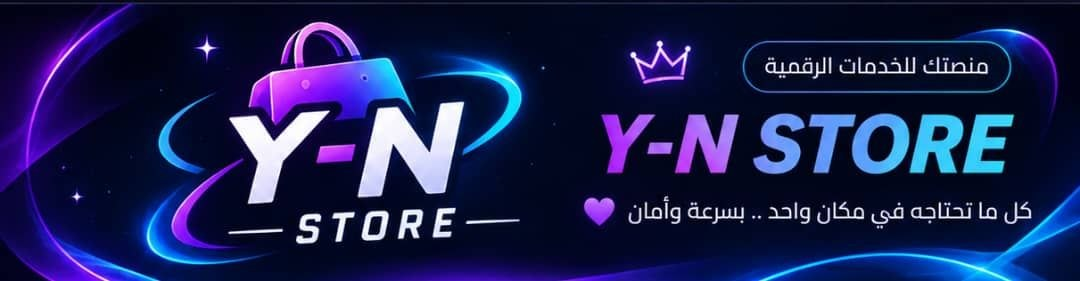
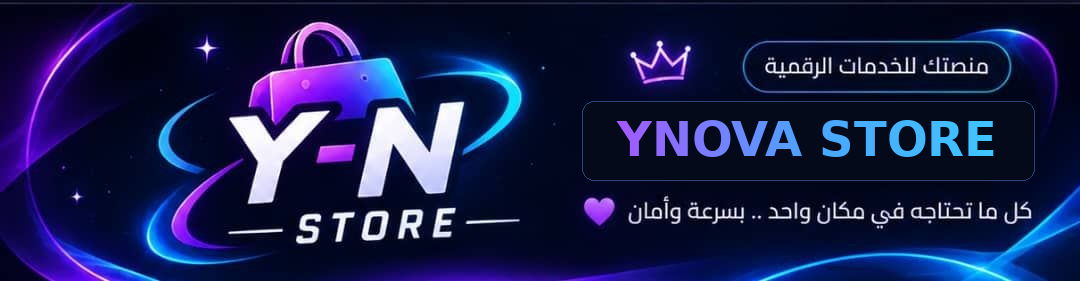
Add files via upload

Changed region(s): [[0.55, 0.3986, 0.9472, 0.6548], [0.55, 0.3416, 0.9472, 0.3701]]

diff --git a/templates/base.html b/templates/base.html
@@ -3,12 +3,12 @@
 <head>
     <meta charset="UTF-8">
     <meta name="viewport" content="width=device-width, initial-scale=1.0, maximum-scale=1.0, user-scalable=no">
-    <title>NOVA STORE</title>
-    <meta name="description" content="NOVA STORE - متجر رقمي لشراء الخدمات الرقمية وشحن الألعاب وحسابات التواصل الاجتماعي مع دعم فني ومتابعة الطلبات.">
+    <title>YNOVA STORE</title>
+    <meta name="description" content="YNOVA STORE - متجر رقمي لشراء الخدمات الرقمية وشحن الألعاب وحسابات التواصل الاجتماعي مع دعم فني ومتابعة الطلبات.">
     <meta name="robots" content="index,follow,max-image-preview:large">
     <link rel="canonical" href="{{ request.url_root.rstrip('/') }}{{ request.path }}">
-    <meta property="og:type" content="website"><meta property="og:site_name" content="NOVA STORE">
-    <meta property="og:title" content="NOVA STORE | المتجر الرقمي">
+    <meta property="og:type" content="website"><meta property="og:site_name" content="YNOVA STORE">
+    <meta property="og:title" content="YNOVA STORE | المتجر الرقمي">
     <meta property="og:description" content="خدمات رقمية وشحن ألعاب وحسابات تواصل اجتماعي ودعم فني.">
     <meta property="og:url" content="{{ request.url }}">
     <meta name="theme-color" content="#08091b">
@@ -51,7 +51,7 @@
         body.light-theme nav span, body.light-theme nav a { color:#475569 !important; }
     
 
-/* NOVA STORE: realistic royal-blue theme (solid colors, restrained shadows) */
+/* YNOVA STORE: realistic royal-blue theme (solid colors, restrained shadows) */
 :root{--yn-blue:#2457d6;--yn-blue-hover:#1d4ed8;--yn-blue-soft:#93c5fd;--yn-bg:#0b1220;--yn-panel:#111c2e;--yn-panel-2:#16243a;--yn-border:#263b60;--yn-text:#e8eef8;--yn-muted:#a8b6cc}
 html{color-scheme:dark}
 body{background-color:var(--yn-bg)!important;color:var(--yn-text)}
@@ -118,7 +118,7 @@ body.light-theme #sidebarMenu a,body.light-theme #sidebarMenu button{color:#2530
 }
 </style>
 <style id="nova-complete-light-theme">
-/* NOVA STORE - complete light appearance: no dark panels left behind */
+/* YNOVA STORE - complete light appearance: no dark panels left behind */
 body.light-theme{
   --yn-bg:#f5f7fb;--yn-panel:#ffffff;--yn-panel-2:#f8fafc;--yn-border:#e2e8f0;
   --yn-text:#172033;--yn-muted:#64748b;--yn-blue:#2457d6;
@@ -223,7 +223,7 @@ body.light-theme .backdrop-blur-md,body.light-theme .backdrop-blur-lg{backdrop-f
 
 </head>
 <body class="min-h-screen flex flex-col justify-between pb-28">
-<div id="novaLoading" aria-live="polite"><div class="nova-loader"><img src="{{ url_for('static',filename='images/nova-symbol.svg') }}" alt="NOVA"><div class="nova-spin"></div><div class="text-white text-sm font-black">NOVA STORE</div><div class="text-slate-400 text-xs mt-2">جاري إتمام العملية...</div></div></div>
+<div id="novaLoading" aria-live="polite"><div class="nova-loader"><img src="{{ url_for('static',filename='images/nova-symbol.svg') }}" alt="NOVA"><div class="nova-spin"></div><div class="text-white text-sm font-black">YNOVA STORE</div><div class="text-slate-400 text-xs mt-2">جاري إتمام العملية...</div></div></div>
 
 
     <div id="sidebarOverlay" onclick="toggleSidebar()"></div>
@@ -235,7 +235,7 @@ body.light-theme .backdrop-blur-md,body.light-theme .backdrop-blur-lg{backdrop-f
                 <div class="flex items-center gap-3">
                     <div class="w-12 h-12 bg-cyan-500/10 border border-cyan-500/30 rounded-2xl flex items-center justify-center text-cyan-400 font-black">NOVA</div>
                     <div>
-                        <h3 class="text-sm font-black text-white">NOVA STORE</h3>
+                        <h3 class="text-sm font-black text-white">YNOVA STORE</h3>
                         <p class="text-[11px] text-gray-400">الخدمات الرقمية</p>
                     </div>
                 </div>
@@ -287,7 +287,7 @@ body.light-theme .backdrop-blur-md,body.light-theme .backdrop-blur-lg{backdrop-f
             {% if current_user %}
             <a href="/logout" class="block bg-rose-500/10 border border-rose-500/30 text-rose-400 py-3 rounded-2xl text-xs font-bold mb-3">تسجيل الخروج</a>
             {% endif %}
-            <p class="text-[10px] text-gray-500">© 2026 NOVA STORE</p>
+            <p class="text-[10px] text-gray-500">© 2026 YNOVA STORE</p>
         </div>
     </div>
 
@@ -299,7 +299,7 @@ body.light-theme .backdrop-blur-md,body.light-theme .backdrop-blur-lg{backdrop-f
                     <svg class="w-5 h-5" fill="none" stroke="currentColor" stroke-width="2" viewBox="0 0 24 24"><path stroke-linecap="round" stroke-linejoin="round" d="M4 6h16M4 12h16M4 18h16"/></svg>
                 </button>
                 <a href="/" class="text-sm font-black text-white flex items-center gap-1.5">
-                    <span>NOVA STORE</span>
+                    <span>YNOVA STORE</span>
                     {% if current_user and current_user.is_verified %}
                     <svg class="w-4 h-4 text-cyan-400" fill="currentColor" viewBox="0 0 20 20"><path d="M6.267 3.455a3.066 3.066 0 001.745-.723 3.066 3.066 0 013.976 0 3.066 3.066 0 001.745.723 3.066 3.066 0 012.812 2.812c.051.643.304 1.254.723 1.745a3.066 3.066 0 010 3.976 3.066 3.066 0 00-.723 1.745 3.066 3.066 0 01-2.812 2.812 3.066 3.066 0 00-1.745.723 3.066 3.066 0 01-3.976 0 3.066 3.066 0 00-1.745-.723 3.066 3.066 0 01-2.812-2.812 3.066 3.066 0 00-.723-1.745 3.066 3.066 0 010-3.976 3.066 3.066 0 00.723-1.745 3.066 3.066 0 012.812-2.812zm7.44 5.25a.75.75 0 00-1.14-.976l-3.36 3.92-1.74-1.74a.75.75 0 00-1.06 1.06l2.25 2.25a.75.75 0 001.12-.08l4-4.5z"/></svg>
                     {% endif %}
@@ -368,7 +368,7 @@ body.light-theme .backdrop-blur-md,body.light-theme .backdrop-blur-lg{backdrop-f
     </nav>
 
 
-<!-- مساعد NOVA STORE العائم: هوية محادثة بنفسجي/نيلي مستقلة عن ألوان المتجر -->
+<!-- مساعد YNOVA STORE العائم: هوية محادثة بنفسجي/نيلي مستقلة عن ألوان المتجر -->
 <style>
  #owjBotButton{background:linear-gradient(135deg,#8b5cf6,#6366f1);color:#fff;border:1px solid #c4b5fd;box-shadow:0 12px 32px rgba(99,102,241,.38)}
  #owjBotWindow{background:#111126;border:1px solid rgba(167,139,250,.42);box-shadow:0 24px 70px rgba(20,12,55,.58)}
@@ -383,18 +383,18 @@ body.light-theme .backdrop-blur-md,body.light-theme .backdrop-blur-lg{backdrop-f
  #owjBotMessages .quick-question{background:#30285b;border:1px solid #6d5ca8;color:#ddd6fe}
  @media(max-width:480px){ #owjBotWindow{bottom:6.1rem;left:.75rem;width:calc(100vw - 1.5rem);max-width:none}#owjBotMessages{height: min(56vh,390px)}}
 </style>
-<button id="owjBotButton" type="button" aria-label="فتح مساعد NOVA STORE" aria-controls="owjBotWindow" aria-expanded="false" class="fixed bottom-24 left-4 z-50 w-14 h-14 rounded-full flex items-center justify-center active:scale-95 transition">
+<button id="owjBotButton" type="button" aria-label="فتح مساعد YNOVA STORE" aria-controls="owjBotWindow" aria-expanded="false" class="fixed bottom-24 left-4 z-50 w-14 h-14 rounded-full flex items-center justify-center active:scale-95 transition">
  <svg viewBox="0 0 24 24" fill="none" stroke="currentColor" stroke-width="1.8" class="w-7 h-7"><rect x="3" y="7" width="18" height="13" rx="4"/><path d="M12 3v4M8 13h.01M16 13h.01M9 17h6"/></svg>
  <span class="absolute -top-1 -right-1 w-3 h-3 rounded-full bg-emerald-400 border-2 border-[#111126]"></span>
 </button>
-<section id="owjBotWindow" dir="rtl" role="dialog" aria-label="مساعد NOVA STORE" aria-modal="false" class="fixed bottom-40 left-4 z-50 w-[calc(100vw-2rem)] max-w-sm hidden overflow-hidden rounded-3xl">
+<section id="owjBotWindow" dir="rtl" role="dialog" aria-label="مساعد YNOVA STORE" aria-modal="false" class="fixed bottom-40 left-4 z-50 w-[calc(100vw-2rem)] max-w-sm hidden overflow-hidden rounded-3xl">
  <header class="owj-bot-head flex items-center justify-between p-4">
-  <div class="flex items-center gap-3"><div class="w-11 h-11 rounded-2xl bg-white/10 border border-white/20 flex items-center justify-center text-white font-black text-xs">NOVA</div><div><h2 class="text-sm font-black text-white">مساعد NOVA STORE</h2><p class="text-[10px] text-violet-200 flex items-center gap-1"><span class="inline-block w-1.5 h-1.5 rounded-full bg-emerald-400"></span> جاهز لمساعدتك</p></div></div>
+  <div class="flex items-center gap-3"><div class="w-11 h-11 rounded-2xl bg-white/10 border border-white/20 flex items-center justify-center text-white font-black text-xs">NOVA</div><div><h2 class="text-sm font-black text-white">مساعد YNOVA STORE</h2><p class="text-[10px] text-violet-200 flex items-center gap-1"><span class="inline-block w-1.5 h-1.5 rounded-full bg-emerald-400"></span> جاهز لمساعدتك</p></div></div>
   <button id="owjBotClose" type="button" aria-label="إغلاق المحادثة" class="w-9 h-9 rounded-xl bg-white/10 text-white hover:bg-white/20 text-xl">×</button>
  </header>
  <div class="px-4 py-2 bg-[#1c1938] text-[10px] text-violet-200 border-b border-violet-400/10">اسأل عن الخدمات أو الطلبات أو شحن المحفظة</div>
  <div id="owjBotMessages" aria-live="polite" class="h-80 overflow-y-auto p-4 space-y-3 text-xs">
-  <div class="bot-msg max-w-[92%] p-3 leading-6">أهلاً بك في NOVA STORE<br>أنا مساعدك الرقمي، كيف فيني أساعدك اليوم؟
+  <div class="bot-msg max-w-[92%] p-3 leading-6">أهلاً بك في YNOVA STORE<br>أنا مساعدك الرقمي، كيف فيني أساعدك اليوم؟
    <div class="mt-3 flex flex-wrap gap-2"><button type="button" data-question="كيف أطلب خدمة؟" class="quick-question rounded-xl px-3 py-2">طريقة الطلب</button><button type="button" data-question="كيف أشحن رصيدي؟" class="quick-question rounded-xl px-3 py-2">شحن الرصيد</button><button type="button" data-question="كيف أتابع طلباتي؟" class="quick-question rounded-xl px-3 py-2">متابعة الطلبات</button></div>
   </div>
  </div>

diff --git a/templates/admin.html b/templates/admin.html
@@ -2,6 +2,37 @@
 {% block title %}لوحة التحكم الإدارية{% endblock %}
 {% block content %}
 <div class="max-w-4xl mx-auto px-4 py-6 space-y-6">
+  <section class="rounded-2xl border border-blue-400/20 bg-gray-900 p-4 space-y-3">
+    <h2 class="text-sm font-black text-blue-300">مركز تطوير وإدارة YNOVA</h2>
+    <div class="grid grid-cols-2 sm:grid-cols-3 gap-2">
+      <a href="/admin/analytics" class="rounded-xl bg-blue-600 p-3 text-center text-xs font-black text-white">📊 الإحصائيات والأرباح</a>
+      <a href="#coupon-center" class="rounded-xl border border-gray-700 bg-gray-950 p-3 text-center text-xs font-bold text-white">🎟 كوبونات الخصم</a>
+      <a href="#api-health-center" class="rounded-xl border border-gray-700 bg-gray-950 p-3 text-center text-xs font-bold text-white">🔌 مراقبة API</a>
+      <a href="#broadcast-center" class="rounded-xl border border-gray-700 bg-gray-950 p-3 text-center text-xs font-bold text-white">🔔 إرسال إشعار عام</a>
+    </div>
+  </section>
+  <section id="coupon-center" class="rounded-2xl border border-amber-400/20 bg-gray-900 p-4 space-y-3">
+    <h2 class="text-sm font-black text-amber-300">🎟 إدارة كوبونات الخصم</h2>
+    <form method="post" action="/admin/coupons/create" class="grid grid-cols-2 gap-2">
+      <input name="code" required maxlength="40" placeholder="الكود مثال WELCOME10" class="col-span-2 rounded-xl border border-gray-700 bg-gray-950 p-3 text-xs text-white">
+      <input name="discount_percent" type="number" min="0" max="100" step="0.1" placeholder="خصم %" class="rounded-xl border border-gray-700 bg-gray-950 p-3 text-xs text-white">
+      <input name="discount_fixed" type="number" min="0" step="0.01" placeholder="خصم ثابت $" class="rounded-xl border border-gray-700 bg-gray-950 p-3 text-xs text-white">
+      <input name="max_uses" type="number" min="0" placeholder="عدد الاستخدامات (0 بلا حد)" class="rounded-xl border border-gray-700 bg-gray-950 p-3 text-xs text-white">
+      <input name="expires_at" type="date" class="rounded-xl border border-gray-700 bg-gray-950 p-3 text-xs text-white">
+      <button class="col-span-2 rounded-xl bg-amber-400 p-3 text-xs font-black text-gray-950">إنشاء الكوبون</button>
+    </form>
+    <div class="space-y-2">{% for coupon in coupons %}<div class="flex flex-wrap items-center justify-between gap-2 rounded-xl border border-gray-800 bg-gray-950 p-3"><div><b class="text-xs text-white">{{ coupon.code }}</b><p class="text-[10px] text-gray-400">{{ coupon.discount_percent }}% + ${{ coupon.discount_fixed|money }} · {{ coupon.used_count }}/{{ coupon.max_uses or '∞' }} استخدام</p></div><form method="post" action="/admin/coupons/{{ coupon.id }}/toggle"><button class="rounded-lg px-3 py-2 text-[10px] font-bold {% if coupon.is_active %}bg-emerald-700 text-white{% else %}bg-gray-700 text-gray-200{% endif %}">{% if coupon.is_active %}تعطيل{% else %}تفعيل{% endif %}</button></form></div>{% else %}<p class="text-xs text-gray-500">لا توجد كوبونات بعد.</p>{% endfor %}</div>
+  </section>
+  <section id="api-health-center" class="rounded-2xl border border-cyan-400/20 bg-gray-900 p-4 space-y-3">
+    <h2 class="text-sm font-black text-cyan-300">🔌 مراقبة مزوّدي API</h2>
+    <p class="text-[11px] leading-5 text-gray-400">هذه الشاشة تعرض حالة التفعيل وتتيح اختبار الاتصال والرصيد يدوياً. لا يتم إجراء طلبات فحص تلقائية متكررة حتى لا نستهلك رصيد المزوّد.</p>
+    {% for provider in smm_providers %}<div class="flex flex-wrap items-center justify-between gap-2 rounded-xl border border-gray-800 bg-gray-950 p-3"><div><b class="text-xs text-white">{{ provider.name }}</b><p class="text-[10px] {% if provider.is_active %}text-emerald-300{% else %}text-rose-300{% endif %}">{% if provider.is_active %}مفعّل{% else %}معطّل{% endif %} · {{ provider.api_protocol }}</p></div><form method="post" action="/admin/test_smm_provider/{{ provider.id }}"><button class="rounded-lg bg-cyan-600 px-3 py-2 text-[10px] font-bold text-white">اختبار الاتصال والرصيد</button></form></div>{% else %}<p class="text-xs text-gray-500">لم تتم إضافة مزوّد API.</p>{% endfor %}
+  </section>
+  <section id="broadcast-center" class="rounded-2xl border border-violet-400/20 bg-gray-900 p-4 space-y-3">
+    <h2 class="text-sm font-black text-violet-300">🔔 إرسال إشعار لجميع العملاء</h2>
+    <form method="post" action="/admin/notifications/broadcast" class="space-y-2"><input name="title" maxlength="160" required placeholder="عنوان الإشعار" class="w-full rounded-xl border border-gray-700 bg-gray-950 p-3 text-xs text-white"><textarea name="message" maxlength="500" required placeholder="محتوى الإشعار" class="w-full rounded-xl border border-gray-700 bg-gray-950 p-3 text-xs text-white"></textarea><button onclick="return confirm('سيصل الإشعار إلى جميع الحسابات غير المحظورة. متابعة؟')" class="w-full rounded-xl bg-violet-600 p-3 text-xs font-black text-white">إرسال الإشعار العام</button></form>
+  </section>
+
   <!-- Quick navigation added without changing the existing dashboard theme or removing sections -->
   <nav aria-label="اختصارات لوحة الإدارة" class="rounded-2xl border border-gray-800 bg-gray-900 p-3">
     <p class="mb-2 text-xs font-black text-cyan-300">وصول سريع — اختر المهمة مباشرة</p>
@@ -15,7 +46,7 @@
     </div>
   </nav>
 <section id="social-accounts" class="mx-auto my-8 max-w-5xl rounded-3xl border border-cyan-400/20 bg-gray-900 p-6 space-y-4">
-  <h2 class="text-lg font-black text-cyan-300">روابط حسابات NOVA STORE الاجتماعية</h2>
+  <h2 class="text-lg font-black text-cyan-300">روابط حسابات YNOVA STORE الاجتماعية</h2>
   <p class="text-xs leading-6 text-gray-400">أضف الروابط لاحقاً أو اترك الحقل فارغاً لإخفاء الأيقونة من صفحة «من نحن».</p>
   <form method="post" action="{{ url_for('admin_social_links') }}" class="grid gap-3">
     <div class="rounded-xl border border-gray-800 p-3"><label class="text-xs text-gray-300">رابط واتساب <input type="url" name="whatsapp" value="{{ social_links.get('whatsapp','') }}" placeholder="https://wa.me/..." dir="ltr" class="mt-1 w-full rounded-xl border border-gray-700 bg-gray-950 p-3 text-white"></label><label class="mt-2 block text-xs text-gray-300">اليوزر / الاسم الظاهر <input name="whatsapp_username" value="{{ social_usernames.get('whatsapp','') }}" placeholder="مثال: NOVA Support" dir="auto" class="mt-1 w-full rounded-xl border border-gray-700 bg-gray-950 p-3 text-white"></label></div>
@@ -131,7 +162,7 @@
             <h2 class="text-sm font-black text-white">جميع الطلبات — يدوي وتلقائي عبر API</h2>
             <span class="rounded-lg bg-cyan-500/10 px-3 py-1 text-[10px] font-bold text-cyan-300">{{ orders|length }} طلب</span>
         </div>
-        <p class="text-[11px] leading-6 text-gray-400">تتم مزامنة حالات الطلبات التلقائية مع المزوّد عند فتح لوحة الإدارة. السعر المعروض هو السعر المحفوظ في NOVA STORE وليس سعر المزوّد.</p>
+        <p class="text-[11px] leading-6 text-gray-400">تتم مزامنة حالات الطلبات التلقائية مع المزوّد عند فتح لوحة الإدارة. السعر المعروض هو السعر المحفوظ في YNOVA STORE وليس سعر المزوّد.</p>
         {% if orders %}
             <div class="space-y-3">
                 {% for ord in orders %}

diff --git a/templates/about.html b/templates/about.html
@@ -1,5 +1,5 @@
 {% extends "base.html" %}
-{% block title %}من نحن والتواصل - NOVA STORE{% endblock %}
+{% block title %}من نحن والتواصل - YNOVA STORE{% endblock %}
 {% block content %}
 <style>
 .about-wrap{max-width:850px;margin:auto;padding:28px 16px 42px}.about-card{background:linear-gradient(145deg,#111c2e,#0d1728);border:1px solid #263b60;border-radius:26px;padding:24px;box-shadow:0 16px 45px rgba(0,0,0,.18)}.contact-card{display:flex;align-items:center;justify-content:space-between;gap:14px;background:#14233a;border:1px solid #29446d;border-radius:18px;padding:16px;margin-top:12px}.contact-card a{white-space:nowrap;background:#16845b;color:white;padding:10px 15px;border-radius:12px;font-size:12px;font-weight:900}.contact-number{direction:ltr;display:block;font-weight:900;letter-spacing:.5px;color:#bfdbfe;margin-top:5px}
@@ -7,15 +7,15 @@
 </style>
 <div class="about-wrap" dir="rtl">
  <section class="about-card">
-  <div class="text-center mb-7"><div class="mx-auto mb-3 flex h-16 w-16 items-center justify-center rounded-2xl bg-blue-600/20 border border-blue-400/30 text-blue-300 text-xl font-black">N</div><h1 class="text-2xl font-black text-white">من نحن - NOVA STORE</h1><p class="text-sm text-blue-200 mt-2">متجرك للخدمات الرقمية في مكان واحد</p></div>
-  <p class="text-sm leading-8 text-slate-300">NOVA STORE منصة رقمية لتسهيل الوصول إلى الخدمات الرقمية وشحن الألعاب والخدمات المرتبطة بمنصات التواصل والحسابات الرقمية. نعمل على جعل تجربة الطلب ومتابعته واضحة وسهلة، مع توفير قنوات مباشرة للتواصل عند وجود استفسار أو مشكلة.</p>
+  <div class="text-center mb-7"><div class="mx-auto mb-3 flex h-16 w-16 items-center justify-center rounded-2xl bg-blue-600/20 border border-blue-400/30 text-blue-300 text-xl font-black">N</div><h1 class="text-2xl font-black text-white">من نحن - YNOVA STORE</h1><p class="text-sm text-blue-200 mt-2">متجرك للخدمات الرقمية في مكان واحد</p></div>
+  <p class="text-sm leading-8 text-slate-300">YNOVA STORE منصة رقمية لتسهيل الوصول إلى الخدمات الرقمية وشحن الألعاب والخدمات المرتبطة بمنصات التواصل والحسابات الرقمية. نعمل على جعل تجربة الطلب ومتابعته واضحة وسهلة، مع توفير قنوات مباشرة للتواصل عند وجود استفسار أو مشكلة.</p>
   <div class="mt-7"><h2 class="text-lg font-black text-white mb-2">قنوات التواصل والدعم</h2><p class="text-xs leading-6 text-slate-400 mb-4">اختر جهة التواصل المناسبة لمشكلتك حتى تصل رسالتك إلى الشخص المختص.</p>
    <div class="contact-card"><div><div class="font-bold text-white">مؤسس ومبرمج الموقع</div><span class="contact-number">+963 952 169 815</span></div><a href="https://wa.me/963952169815" target="_blank" rel="noopener">تواصل عبر واتساب</a></div>
    <div class="contact-card"><div><div class="font-bold text-white">دعم الشحن والإبلاغ عن مشكلة</div><span class="contact-number">+963 984 727 823</span></div><a href="https://wa.me/963984727823" target="_blank" rel="noopener">تواصل عبر واتساب</a></div>
    <div class="contact-card"><div><div class="font-bold text-white">الطلبات أو تسريع طلب أو الإبلاغ عن خطأ</div><span class="contact-number">+963 951 287 267</span></div><a href="https://wa.me/963951287267" target="_blank" rel="noopener">تواصل عبر واتساب</a></div>
   </div>
   <div class="mt-7">
-   <h2 class="text-lg font-black text-white mb-3">تابع NOVA STORE</h2>
+   <h2 class="text-lg font-black text-white mb-3">تابع YNOVA STORE</h2>
    <div class="flex flex-wrap gap-3">
     {% if social_links.get('whatsapp') %}<a href="{{ social_links.get('whatsapp') }}" target="_blank" rel="noopener" aria-label="WhatsApp" class="flex items-center gap-2 rounded-xl border border-emerald-400/30 bg-emerald-500/10 px-4 py-3 text-emerald-300"><span class="text-2xl">☏</span><span><b>واتساب</b>{% if social_usernames.get('whatsapp') %}<small class="block text-[11px] opacity-80">{{ social_usernames.get('whatsapp') }}</small>{% endif %}</span></a>{% endif %}
     {% if social_links.get('facebook') %}<a href="{{ social_links.get('facebook') }}" target="_blank" rel="noopener" aria-label="Facebook" class="flex items-center gap-2 rounded-xl border border-blue-400/30 bg-blue-500/10 px-4 py-3 text-blue-300"><span class="text-2xl font-black">f</span><span><b>فيسبوك</b>{% if social_usernames.get('facebook') %}<small class="block text-[11px] opacity-80">{{ social_usernames.get('facebook') }}</small>{% endif %}</span></a>{% endif %}

diff --git a/templates/ai_bot.html b/templates/ai_bot.html
@@ -1,12 +1,12 @@
 {% extends "base.html" %}
-{% block title %}المساعد الذكي | NOVA STORE{% endblock %}
+{% block title %}المساعد الذكي | YNOVA STORE{% endblock %}
 {% block content %}
 <style>
 .ai-page{width:100%;max-width:760px;margin:auto;padding:24px 16px 36px}.ai-shell{background:#111126;border:1px solid #51477d;border-radius:28px;overflow:hidden;box-shadow:0 18px 55px rgba(49,30,100,.25)}.ai-head{background:linear-gradient(115deg,#312e81,#6b21a8);padding:22px}.ai-feed{background:radial-gradient(ellipse at top,#24204a,#141329 70%,#101020);height: min(58vh,560px);min-height:340px;overflow:auto;padding:20px;display:flex;flex-direction:column;gap:14px}.ai-msg{max-width:88%;padding:13px 15px;border-radius:18px;line-height:1.9;font-size:13px;white-space:pre-wrap;overflow-wrap:anywhere}.ai-msg.bot{background:#272449;border:1px solid #484078;color:#f1edff;border-top-right-radius:5px}.ai-msg.user{background:linear-gradient(135deg,#6d28d9,#4f46e5);border:1px solid #8b5cf6;color:#fff;border-top-left-radius:5px;align-self:flex-end}.ai-form{background:#17152f;border-top:1px solid #39335f;padding:14px;display:flex;gap:9px}.ai-form input{background:#242143;border:1px solid #51477d;color:white;border-radius:14px;padding:13px;min-width:0;flex:1;font-size:14px}.ai-form button{background:linear-gradient(135deg,#8b5cf6,#6366f1);color:white;border-radius:14px;padding:0 20px;font-weight:900}.ai-quick{background:#30285b;border:1px solid #6d5ca8;color:#ddd6fe;border-radius:12px;padding:9px 12px;font-size:12px}</style>
 <div class="ai-page" dir="rtl">
- <div class="mb-4 text-center"><div class="mx-auto mb-3 flex h-14 w-14 items-center justify-center rounded-2xl border border-violet-400/40 bg-violet-500/15 text-violet-300 font-black">NOVA</div><h1 class="text-xl font-black text-white">المساعد الذكي لNOVA STORE</h1><p class="mt-2 text-sm text-gray-400">أهلاً {{ user_name }}، اسألني عن الخدمات والطلبات والشحن والحساب والتواصل</p></div>
+ <div class="mb-4 text-center"><div class="mx-auto mb-3 flex h-14 w-14 items-center justify-center rounded-2xl border border-violet-400/40 bg-violet-500/15 text-violet-300 font-black">NOVA</div><h1 class="text-xl font-black text-white">المساعد الذكي لYNOVA STORE</h1><p class="mt-2 text-sm text-gray-400">أهلاً {{ user_name }}، اسألني عن الخدمات والطلبات والشحن والحساب والتواصل</p></div>
  <section class="ai-shell"><header class="ai-head flex items-center justify-between"><div><h2 class="font-black text-white">محادثة الدعم السريع</h2><p class="mt-1 text-xs text-violet-200">متصل وجاهز للمساعدة</p></div><span class="rounded-full bg-emerald-400/15 px-3 py-1 text-xs text-emerald-300">● متاح</span></header>
- <div id="fullChat" class="ai-feed" aria-live="polite"><div class="ai-msg bot">أهلاً بك في NOVA STORE 👋 أنا مساعد المتجر. أساعدك بمعلومات الخدمات والطلبات والشحن والرصيد والحساب والتواصل، وأعمل مباشرة دون الحاجة إلى مفتاح API.<div class="mt-3 flex flex-wrap gap-2"><button class="ai-quick" data-q="كيف أطلب خدمة؟">طريقة الطلب</button><button class="ai-quick" data-q="كيف أشحن رصيدي؟">شحن الرصيد</button><button class="ai-quick" data-q="كيف أتابع طلباتي؟">متابعة الطلبات</button><button class="ai-quick" data-q="أريد أرقام التواصل واتساب">أرقام التواصل</button></div></div></div>
+ <div id="fullChat" class="ai-feed" aria-live="polite"><div class="ai-msg bot">أهلاً بك في YNOVA STORE 👋 أنا مساعد المتجر. أساعدك بمعلومات الخدمات والطلبات والشحن والرصيد والحساب والتواصل، وأعمل مباشرة دون الحاجة إلى مفتاح API.<div class="mt-3 flex flex-wrap gap-2"><button class="ai-quick" data-q="كيف أطلب خدمة؟">طريقة الطلب</button><button class="ai-quick" data-q="كيف أشحن رصيدي؟">شحن الرصيد</button><button class="ai-quick" data-q="كيف أتابع طلباتي؟">متابعة الطلبات</button><button class="ai-quick" data-q="أريد أرقام التواصل واتساب">أرقام التواصل</button></div></div></div>
  <form id="fullChatForm" data-no-loader="true" class="ai-form"><input id="fullChatInput" maxlength="1000" required autocomplete="off" placeholder="اكتب رسالتك هنا..."><button id="fullChatSend">إرسال</button></form></section>
  <p class="mt-3 text-center text-xs text-gray-500">المساعد يعمل بقاعدة معرفة داخلية دون API خارجي. للمعلومات الخاصة غير المتاحة، سيحوّلك إلى جهة التواصل المناسبة.</p>
 </div>

diff --git a/templates/employee_dashboard.html b/templates/employee_dashboard.html
@@ -1,7 +1,7 @@
 {% extends "base.html" %}
 {% block content %}
 <div class="mx-auto max-w-6xl space-y-6 p-4" dir="rtl">
- <header class="rounded-2xl border border-amber-400/40 bg-slate-900 p-5 shadow-lg"><div class="mb-3 inline-flex rounded-xl bg-amber-400 px-4 py-2 text-sm font-black text-slate-950">لوحة NOVA STORE للموظف</div><h1 class="text-2xl font-black text-white">لوحة الموظف</h1><p class="mt-2 text-sm text-slate-300">الصلاحيات: الرد على الشكاوى، عرض الطلبات، معالجة طلبات التجار والتوثيق فقط. لا توجد صلاحية للمحافظ أو تعديل الأسعار أو الخدمات أو إعدادات الموقع.</p></header>
+ <header class="rounded-2xl border border-amber-400/40 bg-slate-900 p-5 shadow-lg"><div class="mb-3 inline-flex rounded-xl bg-amber-400 px-4 py-2 text-sm font-black text-slate-950">لوحة YNOVA STORE للموظف</div><h1 class="text-2xl font-black text-white">لوحة الموظف</h1><p class="mt-2 text-sm text-slate-300">الصلاحيات: الرد على الشكاوى، عرض الطلبات، معالجة طلبات التجار والتوثيق فقط. لا توجد صلاحية للمحافظ أو تعديل الأسعار أو الخدمات أو إعدادات الموقع.</p></header>
  <section class="rounded-2xl border border-amber-400/20 bg-slate-900 p-5"><h2 class="mb-4 text-lg font-bold text-white">طلبات توثيق التجار</h2>{% for r in merchant_requests %}<article class="mb-3 rounded-xl bg-slate-950 p-4 text-white"><b>{{ r.user.username }}</b><p class="my-2 text-xs text-slate-300">فيسبوك: <a class="text-blue-300 underline" href="{{ r.facebook_url }}" target="_blank" rel="noopener">فتح الصفحة</a> · إنستغرام: <a class="text-pink-300 underline" href="{{ r.instagram_url }}" target="_blank" rel="noopener">فتح الحساب</a></p><div class="flex gap-2"><form method="post" action="{{ url_for('employee_merchant',req_id=r.id) }}"><input type="hidden" name="action" value="approve"><button class="rounded-lg bg-emerald-600 px-4 py-2">قبول التاجر</button></form><form method="post" action="{{ url_for('employee_merchant',req_id=r.id) }}"><input type="hidden" name="action" value="reject"><button class="rounded-lg bg-rose-700 px-4 py-2">رفض الطلب</button></form></div></article>{% else %}<p class="text-sm text-slate-400">لا توجد طلبات تجار معلقة.</p>{% endfor %}</section>
  <section class="rounded-2xl border border-slate-700 bg-slate-900 p-5"><h2 class="mb-4 text-lg font-bold text-white">طلبات توثيق الحسابات</h2>{% for r in verification_requests %}<article class="mb-3 rounded-xl bg-slate-950 p-4 text-white"><b>{{ r.user.username }}</b><p class="text-sm text-slate-300">الاسم: {{ r.full_name }} · البريد: {{ r.email }} · الهاتف: {{ r.phone }} · العمر: {{ r.age }}</p><form method="post" action="{{ url_for('employee_verification',req_id=r.id) }}" class="mt-3 space-y-2"><input name="reject_reason" maxlength="500" placeholder="سبب الرفض (مطلوب عند الرفض)" class="w-full rounded-lg bg-slate-900 p-2 text-white"><div class="flex gap-2"><button name="action" value="approve" class="rounded-lg bg-emerald-600 px-4 py-2">قبول التوثيق</button><button name="action" value="reject" class="rounded-lg bg-rose-700 px-4 py-2">رفض التوثيق</button></div></form></article>{% else %}<p class="text-sm text-slate-400">لا توجد طلبات توثيق معلقة.</p>{% endfor %}</section>
  <section class="rounded-2xl border border-slate-700 bg-slate-900 p-5"><h2 class="mb-4 text-lg font-bold text-white">كل الطلبات</h2><div class="space-y-3">{% for o in orders %}<article class="rounded-xl bg-slate-950 p-4 text-white"><div class="flex flex-wrap items-center justify-between gap-2"><b>طلب #{{ o.id }} · {{ o.service_name }}</b><span class="rounded-full bg-slate-800 px-3 py-1 text-xs">{{ o.status }}</span></div><p class="mt-2 text-sm text-slate-300">العميل: {{ o.user.username if o.user else 'غير معروف' }} · السعر بالموقع: ${{ '%.4f'|format(o.total_price or 0) }} · الكمية: {{ o.quantity or 1 }}</p><p class="mt-1 break-all text-xs text-slate-400">البيانات: {{ o.link or '—' }} · رقم المزوّد: {{ o.provider_order_id or '—' }}</p></article>{% else %}<p class="text-sm text-slate-400">لا توجد طلبات.</p>{% endfor %}</div></section>

diff --git a/templates/api_docs.html b/templates/api_docs.html
@@ -1,7 +1,7 @@
 {% extends 'base.html' %}{% block content %}
 <div class="max-w-4xl mx-auto px-4 py-8 space-y-4" dir="rtl">
-  <h1 class="text-2xl font-black">واجهة API الخاصة بـ NOVA STORE</h1>
-  <p class="text-gray-400">تربط موقعك بـ NOVA STORE: تعرض الخدمات، تتحقق من رصيد العميل، ترسل الطلبات وتخصم قيمتها من محفظته.</p>
+  <h1 class="text-2xl font-black">واجهة API الخاصة بـ YNOVA STORE</h1>
+  <p class="text-gray-400">تربط موقعك بـ YNOVA STORE: تعرض الخدمات، تتحقق من رصيد العميل، ترسل الطلبات وتخصم قيمتها من محفظته.</p>
   <section class="rounded-2xl border border-slate-700 bg-slate-900 p-5"><h2 class="font-bold">المصادقة</h2><p class="text-sm text-gray-300 mt-2">كل طلب يحتاج مفتاح API معتمد من الإدارة. أرسل المفتاح في الترويسة:</p><pre class="overflow-auto text-xs mt-3"><code>Authorization: Bearer YOUR_NOVA_API_KEY</code></pre><p class="text-amber-300 text-xs mt-2">لا تضع المفتاح في JavaScript أو تطبيق المتصفح. خزّنه في الخادم فقط.</p></section>
   <section class="rounded-2xl border border-slate-700 bg-slate-900 p-5"><h2 class="font-bold">1. قائمة الخدمات</h2><p class="text-xs text-gray-400 mt-2">GET /api/v1/catalog</p><pre class="overflow-auto text-xs mt-3"><code>curl -H "Authorization: Bearer YOUR_KEY" {{request.host_url}}api/v1/catalog</code></pre></section>
   <section class="rounded-2xl border border-slate-700 bg-slate-900 p-5"><h2 class="font-bold">2. رصيد العميل</h2><p class="text-xs text-gray-400 mt-2">GET /api/v1/balance</p><pre class="overflow-auto text-xs mt-3"><code>curl -H "Authorization: Bearer YOUR_KEY" {{request.host_url}}api/v1/balance</code></pre></section>
@@ -10,5 +10,5 @@
   -H "Content-Type: application/json" \\
   -d '{"service_id": 12, "link": "https://example.com/user", "quantity": 1000}'</code></pre><p class="text-sm text-gray-300 mt-2">الخدمات ذات الكمية الثابتة لا تحتاج quantity. لا يُخصم الرصيد إذا كان غير كافٍ أو رفض المزوّد الطلب.</p></section>
   <section class="rounded-2xl border border-slate-700 bg-slate-900 p-5"><h2 class="font-bold">4. متابعة طلبات العميل</h2><p class="text-xs text-gray-400 mt-2">GET /api/v1/orders?limit=50</p><pre class="overflow-auto text-xs mt-3"><code>curl -H "Authorization: Bearer YOUR_KEY" "{{request.host_url}}api/v1/orders?limit=50"</code></pre></section>
-  <section class="rounded-2xl border border-amber-700 bg-amber-950/30 p-5"><h2 class="font-bold">ملاحظات مهمة</h2><ul class="list-disc pr-5 text-sm text-gray-300 mt-2 space-y-1"><li>الأسعار والخصم تُحسب من إعدادات خدمات NOVA STORE، ولا يقبل الخادم سعرًا يرسله العميل.</li><li>الطلب يُسجل على حساب صاحب مفتاح API المعتمد فقط.</li><li>لا تعاود إرسال طلب POST تلقائياً عند انقطاع الاتصال؛ تحقق أولاً من قائمة الطلبات لتجنب تكرار الطلب.</li><li>كل الأسعار والرصيد بالدولار USD في استجابة API.</li><li>أرسل المفتاح في Authorization Bearer، ولا تشاركه مع أي عميل آخر.</li></ul></section>
+  <section class="rounded-2xl border border-amber-700 bg-amber-950/30 p-5"><h2 class="font-bold">ملاحظات مهمة</h2><ul class="list-disc pr-5 text-sm text-gray-300 mt-2 space-y-1"><li>الأسعار والخصم تُحسب من إعدادات خدمات YNOVA STORE، ولا يقبل الخادم سعرًا يرسله العميل.</li><li>الطلب يُسجل على حساب صاحب مفتاح API المعتمد فقط.</li><li>لا تعاود إرسال طلب POST تلقائياً عند انقطاع الاتصال؛ تحقق أولاً من قائمة الطلبات لتجنب تكرار الطلب.</li><li>كل الأسعار والرصيد بالدولار USD في استجابة API.</li><li>أرسل المفتاح في Authorization Bearer، ولا تشاركه مع أي عميل آخر.</li></ul></section>
 </div>{% endblock %}

diff --git a/templates/my_orders.html b/templates/my_orders.html
@@ -1,4 +1,4 @@
-{% extends "base.html" %}{% block title %}طلباتي{% endblock %}{% block content %}<div class="mx-auto max-w-3xl space-y-4 px-4 py-6"><h1 class="text-lg font-black text-white">طلباتي</h1><p class="text-xs text-gray-400">تتحدث حالات الطلبات التلقائية من مزوّد الخدمة أثناء وجودك في هذه الصفحة.</p>{% for ord in orders %}<article class="rounded-2xl border border-gray-800 bg-gray-900 p-4"><div class="flex items-start justify-between gap-3"><div><h2 class="text-sm font-bold text-white">{{ ord.service_name }} <span class="text-gray-500">#{{ ord.id }}</span></h2><p class="mt-2 break-all text-xs text-gray-400">المطلوب: {{ ord.link }}</p><p class="mt-2 text-xs text-gray-400">الكمية: {{ ord.quantity }} · التكلفة: <span class="text-cyan-400">${{ ord.total_price|money }}</span></p></div><span id="order-status-{{ ord.id }}" class="shrink-0 rounded-lg bg-cyan-500/10 px-2 py-1 text-[10px] text-cyan-300">{{ ord.status }}</span></div></article>{% else %}<div class="rounded-2xl border border-gray-800 bg-gray-900 p-8 text-center"><p class="text-sm font-bold text-white">لا توجد طلبات حتى الآن</p><a href="/accounts" class="mt-3 inline-block text-xs text-cyan-400">تصفح المتجر</a></div>{% endfor %}</div><script>
+{% extends "base.html" %}{% block title %}طلباتي{% endblock %}{% block content %}<div class="mx-auto max-w-3xl space-y-4 px-4 py-6"><h1 class="text-lg font-black text-white">طلباتي</h1><p class="text-xs text-gray-400">تتحدث حالات الطلبات التلقائية من مزوّد الخدمة أثناء وجودك في هذه الصفحة.</p>{% for ord in orders %}<article class="rounded-2xl border border-gray-800 bg-gray-900 p-4"><div class="flex items-start justify-between gap-3"><div><h2 class="text-sm font-bold text-white">{{ ord.service_name }} <span class="text-gray-500">#{{ ord.id }}</span></h2><p class="mt-2 break-all text-xs text-gray-400">المطلوب: {{ ord.link }}</p><p class="mt-2 text-xs text-gray-400">الكمية: {{ ord.quantity }} · التكلفة: <span class="text-cyan-400">${{ ord.total_price|money }}</span></p></div><span id="order-status-{{ ord.id }}" class="shrink-0 rounded-lg bg-cyan-500/10 px-2 py-1 text-[10px] text-cyan-300">{{ ord.status }}</span></div>{% if ord.status == 'مكتمل' and not ord.review %}<form action="/order/{{ ord.id }}/review" method="post" class="mt-3 border-t border-gray-800 pt-3 space-y-2"><label class="block text-xs text-gray-300">قيّم تجربتك</label><select name="rating" class="w-full rounded-xl border border-gray-700 bg-gray-950 p-2 text-xs text-white"><option value="5">5 - ممتاز</option><option value="4">4 - جيد جداً</option><option value="3">3 - جيد</option><option value="2">2 - مقبول</option><option value="1">1 - سيئ</option></select><input name="comment" maxlength="500" placeholder="تعليق اختياري" class="w-full rounded-xl border border-gray-700 bg-gray-950 p-2 text-xs text-white"><button class="rounded-xl bg-cyan-600 px-4 py-2 text-xs font-bold text-white">إرسال التقييم</button></form>{% endif %}</article>{% else %}<div class="rounded-2xl border border-gray-800 bg-gray-900 p-8 text-center"><p class="text-sm font-bold text-white">لا توجد طلبات حتى الآن</p><a href="/accounts" class="mt-3 inline-block text-xs text-cyan-400">تصفح المتجر</a></div>{% endfor %}</div><script>
 (function(){
   async function refreshOrderStatuses(){
     try {

diff --git a/templates/register.html b/templates/register.html
@@ -1,1 +1,1 @@
-{% extends "base.html" %}{% block title %}إنشاء حساب{% endblock %}{% block content %}<div class="mx-auto max-w-sm px-4 py-8"><div class="rounded-3xl border border-gray-800 bg-gray-900 p-6 shadow-xl"><h1 class="mb-2 text-xl font-black text-white">إنشاء حساب جديد</h1><p class="mb-6 text-xs text-gray-400">انضم إلى NOVA STORE</p><form method="post" class="space-y-3"><input name="full_name" placeholder="الاسم الكامل" class="w-full rounded-xl border border-gray-800 bg-gray-950 p-3 text-xs text-white"><input name="username" required minlength="3" placeholder="اسم المستخدم" class="w-full rounded-xl border border-gray-800 bg-gray-950 p-3 text-xs text-white"><input name="email" type="email" placeholder="البريد الإلكتروني" class="w-full rounded-xl border border-gray-800 bg-gray-950 p-3 text-xs text-white"><input name="phone" placeholder="رقم الهاتف" class="w-full rounded-xl border border-gray-800 bg-gray-950 p-3 text-xs text-white"><input name="password" type="password" required minlength="8" placeholder="كلمة المرور (8 أحرف على الأقل)" class="w-full rounded-xl border border-gray-800 bg-gray-950 p-3 text-xs text-white"><button class="w-full rounded-xl bg-cyan-500 p-3 text-xs font-black text-gray-950">إنشاء الحساب</button></form><p class="mt-5 text-center text-xs text-gray-400">لديك حساب؟ <a href="/login" class="text-cyan-400">تسجيل الدخول</a></p></div></div>{% endblock %}
+{% extends "base.html" %}{% block title %}إنشاء حساب{% endblock %}{% block content %}<div class="mx-auto max-w-sm px-4 py-8"><div class="rounded-3xl border border-gray-800 bg-gray-900 p-6 shadow-xl"><h1 class="mb-2 text-xl font-black text-white">إنشاء حساب جديد</h1><p class="mb-6 text-xs text-gray-400">انضم إلى YNOVA STORE</p><form method="post" class="space-y-3"><input name="full_name" placeholder="الاسم الكامل" class="w-full rounded-xl border border-gray-800 bg-gray-950 p-3 text-xs text-white"><input name="username" required minlength="3" placeholder="اسم المستخدم" class="w-full rounded-xl border border-gray-800 bg-gray-950 p-3 text-xs text-white"><input name="email" type="email" placeholder="البريد الإلكتروني" class="w-full rounded-xl border border-gray-800 bg-gray-950 p-3 text-xs text-white"><input name="phone" placeholder="رقم الهاتف" class="w-full rounded-xl border border-gray-800 bg-gray-950 p-3 text-xs text-white"><input name="password" type="password" required minlength="8" placeholder="كلمة المرور (8 أحرف على الأقل)" class="w-full rounded-xl border border-gray-800 bg-gray-950 p-3 text-xs text-white"><button class="w-full rounded-xl bg-cyan-500 p-3 text-xs font-black text-gray-950">إنشاء الحساب</button></form><p class="mt-5 text-center text-xs text-gray-400">لديك حساب؟ <a href="/login" class="text-cyan-400">تسجيل الدخول</a></p></div></div>{% endblock %}

diff --git a/templates/admin_analytics.html b/templates/admin_analytics.html
@@ -1,0 +1,10 @@
+{% extends "base.html" %}{% block title %}إحصائيات YNOVA STORE{% endblock %}{% block content %}
+<div class="mx-auto max-w-5xl space-y-5 px-4 py-6">
+  <div class="flex items-center justify-between gap-3"><div><h1 class="text-xl font-black text-white">📊 إحصائيات المتجر</h1><p class="mt-1 text-xs text-gray-400">ملخص مبني على الطلبات المسجلة في قاعدة البيانات.</p></div><a href="/admin" class="rounded-xl border border-gray-700 px-4 py-2 text-xs text-white">العودة للإدارة</a></div>
+  <div class="grid grid-cols-2 md:grid-cols-3 gap-3">
+    {% for label,value in [('إجمالي الطلبات',total_orders),('طلبات اليوم',today_orders),('طلبات مكتملة',completed_count),('طلبات قيد التنفيذ',pending_count),('عدد العملاء',users_count)] %}<div class="rounded-2xl border border-gray-800 bg-gray-900 p-4"><p class="text-[11px] text-gray-400">{{ label }}</p><p class="mt-2 text-2xl font-black text-blue-300">{{ value }}</p></div>{% endfor %}
+    <div class="rounded-2xl border border-emerald-500/20 bg-gray-900 p-4"><p class="text-[11px] text-gray-400">إجمالي قيمة الطلبات المكتملة</p><p class="mt-2 text-2xl font-black text-emerald-300">${{ revenue|money }}</p><p class="mt-1 text-[10px] text-gray-500">إيراد إجمالي قبل خصم تكاليف المزوّد</p></div>
+  </div>
+  <section class="rounded-2xl border border-gray-800 bg-gray-900 p-4"><h2 class="mb-3 text-sm font-black text-white">الأكثر طلباً</h2>{% for name,count in service_counts %}<div class="flex items-center justify-between border-b border-gray-800 py-2 text-xs"><span class="text-gray-200">{{ name }}</span><b class="text-blue-300">{{ count }} طلب</b></div>{% else %}<p class="text-xs text-gray-500">لا توجد بيانات.</p>{% endfor %}</section>
+  <section class="rounded-2xl border border-gray-800 bg-gray-900 p-4"><h2 class="mb-3 text-sm font-black text-white">آخر تقييمات العملاء</h2>{% for review in reviews %}<div class="border-b border-gray-800 py-3"><div class="flex justify-between gap-2 text-xs"><b class="text-white">{{ review.user.username if review.user else 'عميل' }} · الطلب #{{ review.order_id }}</b><span class="text-amber-300">{{ '★' * review.rating }}</span></div><p class="mt-1 text-xs text-gray-400">{{ review.comment or 'بدون تعليق' }}</p></div>{% else %}<p class="text-xs text-gray-500">لا توجد تقييمات بعد.</p>{% endfor %}</section>
+</div>{% endblock %}

diff --git a/templates/profile.html b/templates/profile.html
@@ -1,5 +1,5 @@
 {% extends "base.html" %}
-{% block title %}حسابي الشخصي | NOVA STORE{% endblock %}
+{% block title %}حسابي الشخصي | YNOVA STORE{% endblock %}
 {% block content %}
 <div class="mx-auto max-w-2xl px-4 py-6 pb-28">
   <div class="rounded-3xl border border-gray-800 bg-gray-900 p-5 sm:p-6 shadow-xl">
@@ -20,6 +20,11 @@
     <div class="mb-5 rounded-2xl border border-cyan-500/20 bg-cyan-500/5 p-4">
       <p class="text-xs text-gray-400">رصيد المحفظة</p>
       <p class="mt-1 text-2xl font-black text-cyan-400">${{ user.balance_usd|money }}</p>
+    </div>
+
+    <div class="mb-5 rounded-2xl border border-amber-400/20 bg-amber-400/5 p-4">
+      <div class="flex items-center justify-between gap-3"><div><p class="text-xs text-gray-400">نقاط الولاء</p><p class="mt-1 text-xl font-black text-amber-300">{{ user.loyalty_points or 0 }} نقطة</p><p class="mt-1 text-[10px] text-gray-500">كل 100 نقطة = 1 دولار رصيد</p></div>
+      <form method="post" action="/profile/redeem-points"><button class="rounded-xl bg-amber-400 px-4 py-2 text-xs font-black text-gray-950" {% if (user.loyalty_points or 0) < 100 %}disabled{% endif %}>استبدال النقاط</button></form></div>
     </div>
 
     <form method="post" class="space-y-3">
@@ -71,7 +76,7 @@
             <span class="text-lg transition-transform group-open:rotate-180">⌄</span>
           </summary>
           <div class="border-t border-violet-400/10 p-4">
-            <p class="text-xs leading-6 text-gray-400">طلب ربط موقعك بخدمات NOVA STORE. بعد مراجعة الإدارة يصدر مفتاح API خاص.</p>
+            <p class="text-xs leading-6 text-gray-400">طلب ربط موقعك بخدمات YNOVA STORE. بعد مراجعة الإدارة يصدر مفتاح API خاص.</p>
             {% if api_application %}
               <p class="mt-3 text-sm text-gray-200">حالة الطلب:
                 <b class="{% if api_application.status == 'approved' %}text-emerald-400{% elif api_application.status == 'rejected' %}text-rose-400{% else %}text-amber-300{% endif %}">{{ 'مقبول' if api_application.status == 'approved' else ('مرفوض' if api_application.status == 'rejected' else 'قيد المراجعة') }}</b>

diff --git a/templates/login.html b/templates/login.html
@@ -1,1 +1,1 @@
-{% extends "base.html" %}{% block title %}تسجيل الدخول{% endblock %}{% block content %}<div class="mx-auto max-w-sm px-4 py-10"><div class="rounded-3xl border border-gray-800 bg-gray-900 p-6 shadow-xl"><h1 class="mb-2 text-xl font-black text-white">أهلاً بعودتك</h1><p class="mb-6 text-xs text-gray-400">سجّل الدخول إلى حساب NOVA STORE</p><form method="post" class="space-y-3"><input name="username" required autocomplete="username" placeholder="اسم المستخدم" class="w-full rounded-xl border border-gray-800 bg-gray-950 p-3 text-xs text-white"><input name="password" type="password" required autocomplete="current-password" placeholder="كلمة المرور" class="w-full rounded-xl border border-gray-800 bg-gray-950 p-3 text-xs text-white"><button class="w-full rounded-xl bg-cyan-500 p-3 text-xs font-black text-gray-950">دخول</button></form><p class="mt-5 text-center text-xs text-gray-400">ليس لديك حساب؟ <a href="/register" class="text-cyan-400">أنشئ حساباً</a></p></div></div>{% endblock %}
+{% extends "base.html" %}{% block title %}تسجيل الدخول{% endblock %}{% block content %}<div class="mx-auto max-w-sm px-4 py-10"><div class="rounded-3xl border border-gray-800 bg-gray-900 p-6 shadow-xl"><h1 class="mb-2 text-xl font-black text-white">أهلاً بعودتك</h1><p class="mb-6 text-xs text-gray-400">سجّل الدخول إلى حساب YNOVA STORE</p><form method="post" class="space-y-3"><input name="username" required autocomplete="username" placeholder="اسم المستخدم" class="w-full rounded-xl border border-gray-800 bg-gray-950 p-3 text-xs text-white"><input name="password" type="password" required autocomplete="current-password" placeholder="كلمة المرور" class="w-full rounded-xl border border-gray-800 bg-gray-950 p-3 text-xs text-white"><button class="w-full rounded-xl bg-cyan-500 p-3 text-xs font-black text-gray-950">دخول</button></form><p class="mt-5 text-center text-xs text-gray-400">ليس لديك حساب؟ <a href="/register" class="text-cyan-400">أنشئ حساباً</a></p></div></div>{% endblock %}

diff --git a/templates/site_lock.html b/templates/site_lock.html
@@ -2,7 +2,7 @@
 <html lang="ar" dir="rtl">
 <head>
   <meta charset="utf-8"><meta name="viewport" content="width=device-width,initial-scale=1">
-  <meta name="robots" content="noindex,nofollow"><title>قفل NOVA STORE</title>
+  <meta name="robots" content="noindex,nofollow"><title>قفل YNOVA STORE</title>
   <style>
     *{box-sizing:border-box}body{margin:0;min-height:100vh;display:grid;place-items:center;padding:20px;background:#0b1220;color:#e8eef8;font-family:Tahoma,Arial,sans-serif}
     .card{width:min(100%,410px);padding:30px;border:1px solid #263b60;border-radius:24px;background:#111c2e;box-shadow:0 24px 70px #0008;text-align:center}
@@ -14,7 +14,7 @@
   </style>
 </head>
 <body><main class="card">
-  <div class="lock">🔒</div><h1>NOVA STORE مقفل</h1>
+  <div class="lock">🔒</div><h1>YNOVA STORE مقفل</h1>
   <p>أدخل كلمة مرور قفل الموقع للمتابعة، {{ user.full_name or user.username }}.</p>
   {% with messages = get_flashed_messages(with_categories=true) %}{% for category,message in messages %}<div class="flash">{{ message }}</div>{% endfor %}{% endwith %}
   <form method="post" action="{{ url_for('site_lock_unlock') }}">
